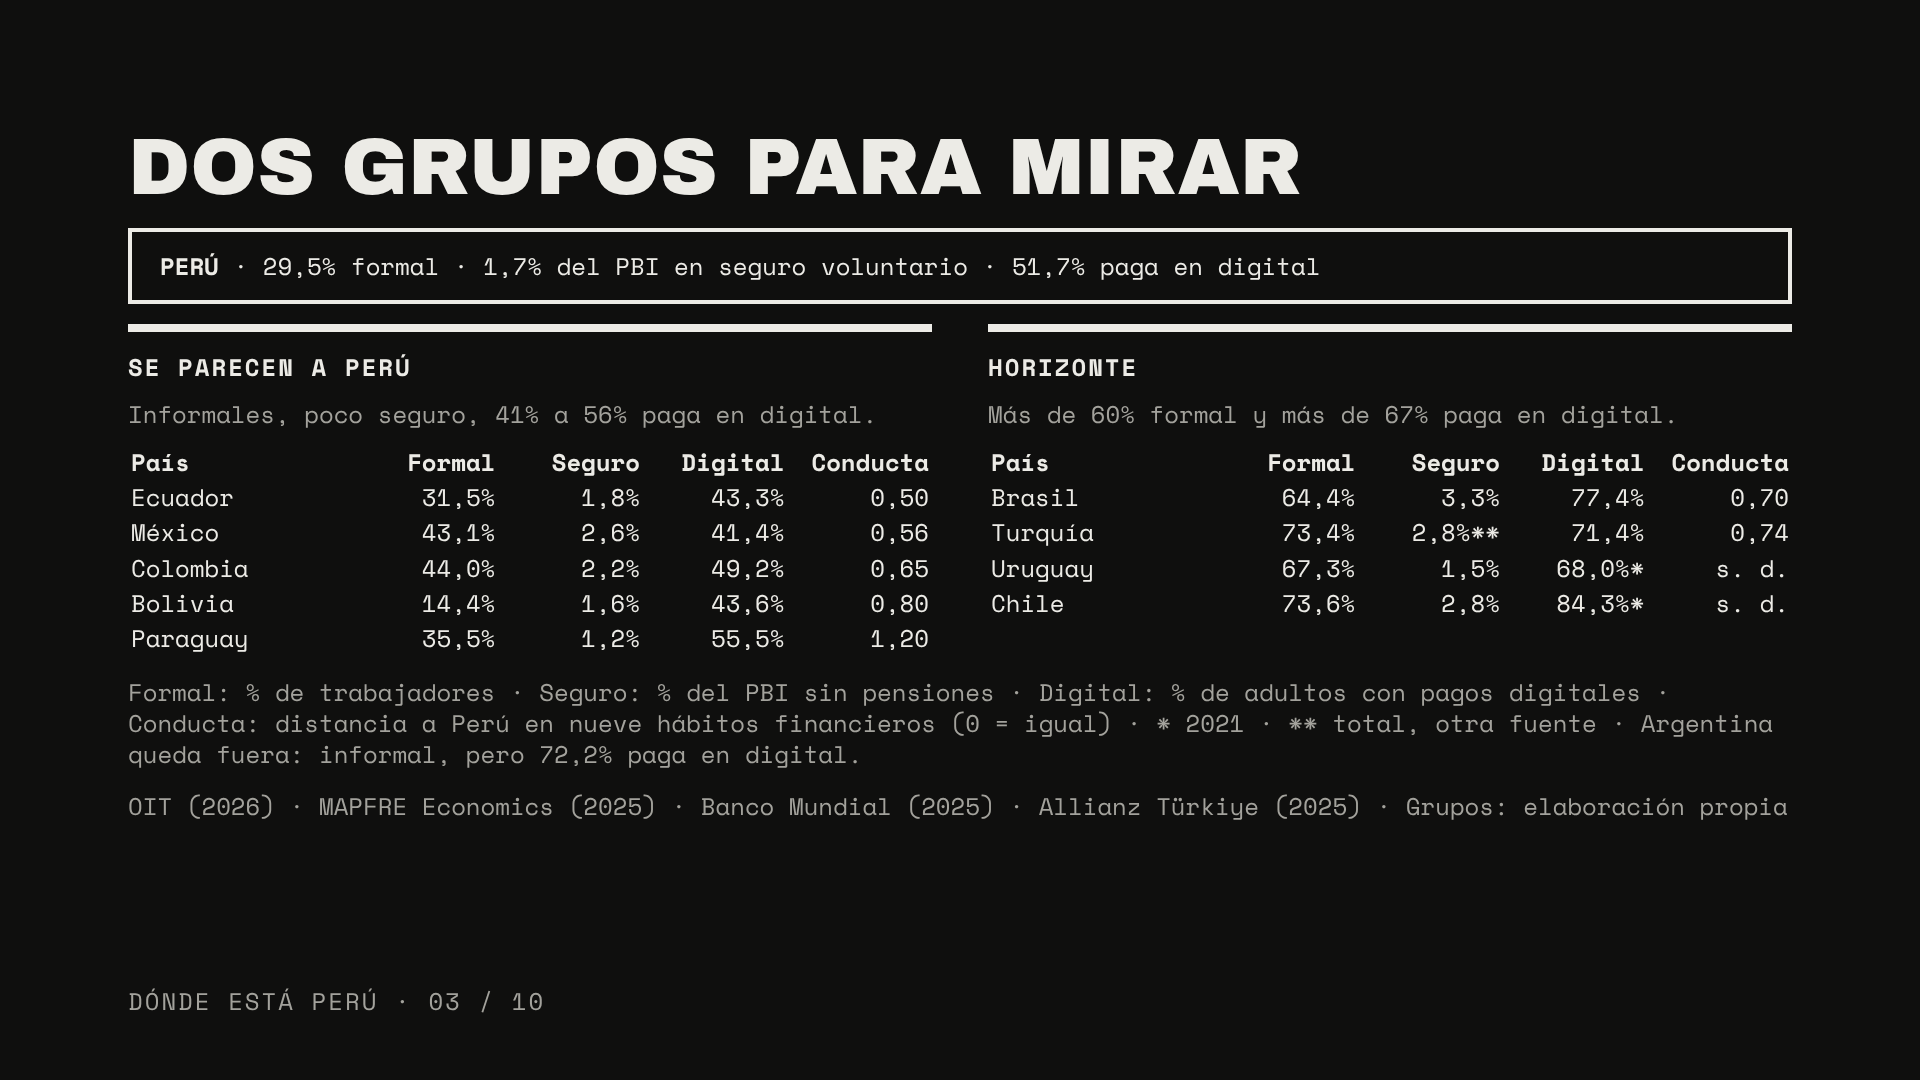
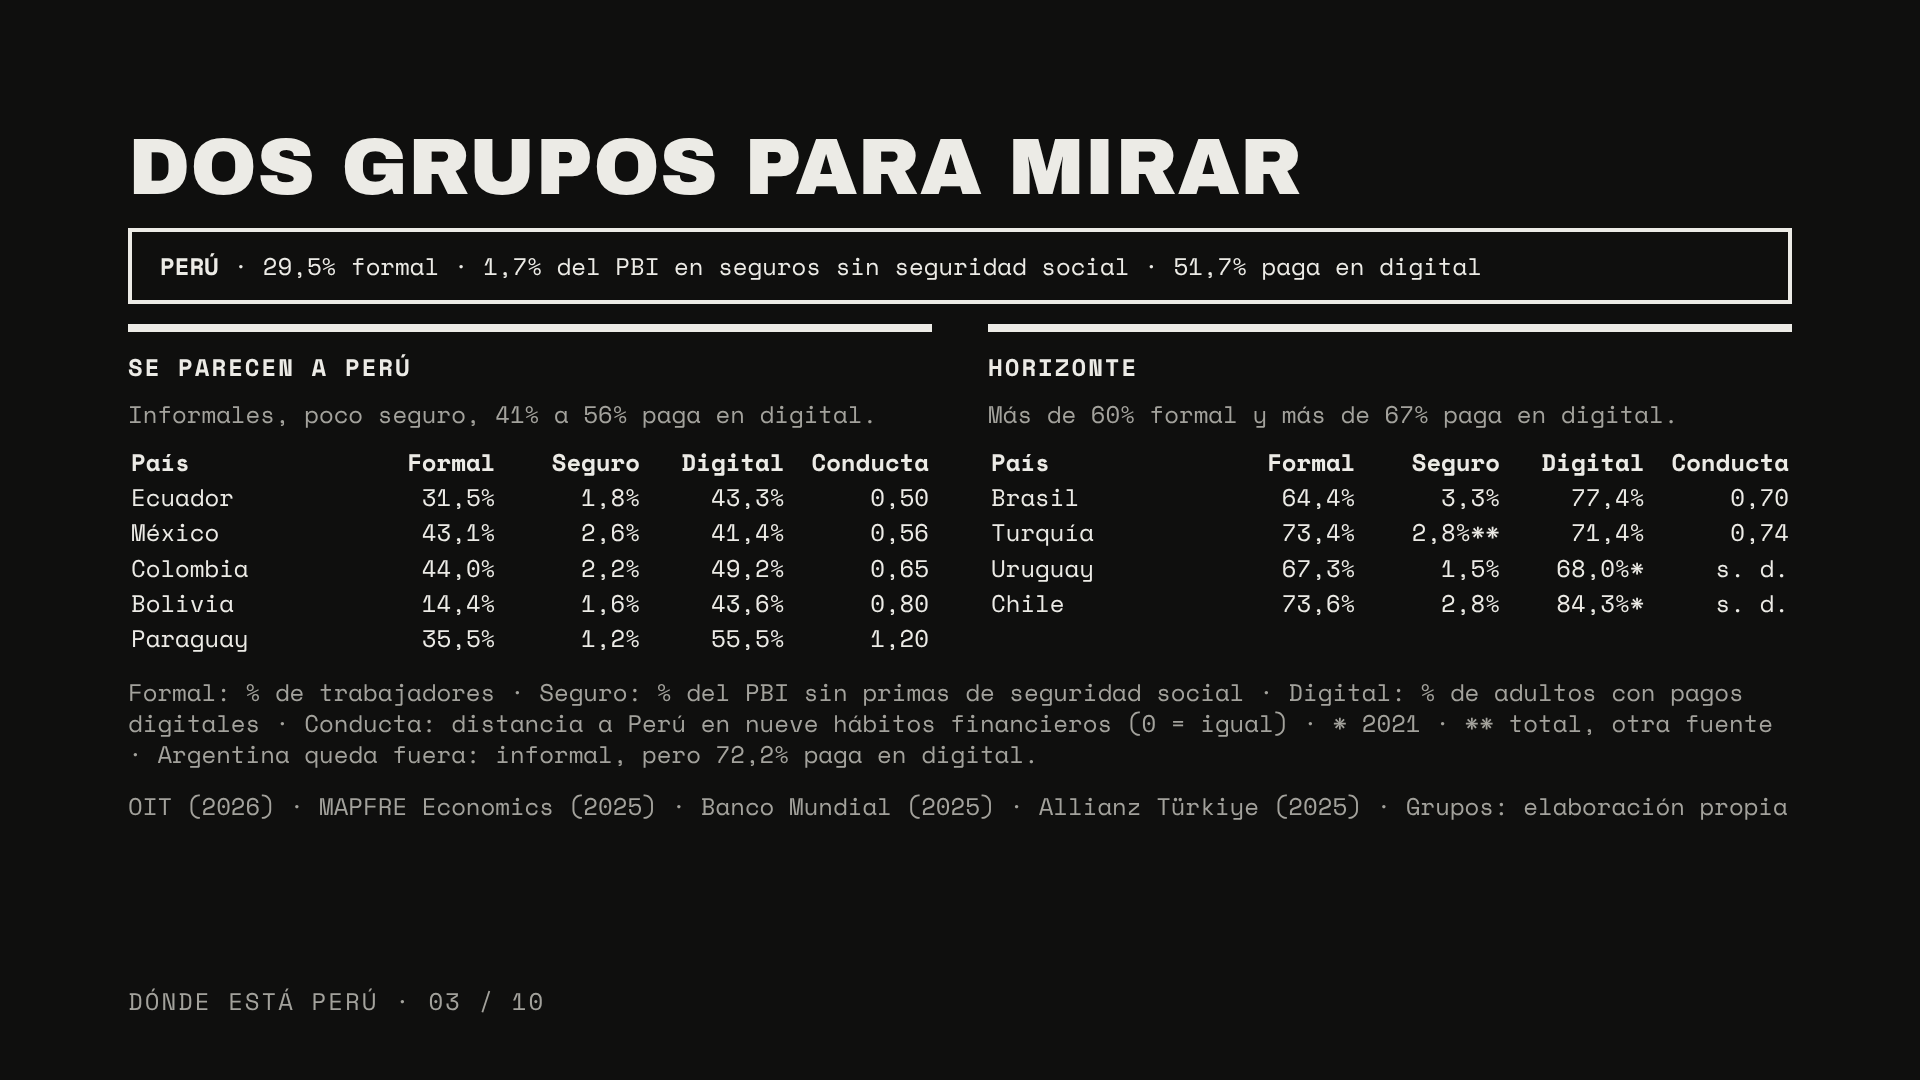
Corrige la etiqueta de primas por habitante y cambia el dato de la lámina de back office
Claude-Session: https://claude.ai/code/session_0172Gzwbb2YLHGW14wEzAdeb

Changed region(s): [[0.0625, 0.6417, 0.9062, 0.7028], [0.4375, 0.2444, 0.6875, 0.275], [0.7188, 0.2444, 0.75, 0.275]]

diff --git a/reports/presentacion-sudamerica/monocromo/project/slides/contexto-cuadrantes.html b/reports/presentacion-sudamerica/monocromo/project/slides/contexto-cuadrantes.html
@@ -1,9 +1,9 @@
 <section id="contexto-cuadrantes" data-transition="fade">
 <h2 class="t">Informal y poco asegurado</h2>
-<p class="sub">Perú frente a la región. Burbuja: gasto en seguros por habitante.</p>
+<p class="sub">Perú frente a la región. Burbuja: primas totales por habitante.</p>
 <div class="row">
 <div class="host" style="width:1040px;height:530px">
-<svg aria-label="Gráfico de burbujas: formalidad laboral frente a penetración voluntaria del seguro, por país" width="1040" height="530" viewBox="0 0 1040 530">
+<svg aria-label="Gráfico de burbujas: formalidad laboral frente a penetración del seguro sin primas de seguridad social, por país" width="1040" height="530" viewBox="0 0 1040 530">
 <line x1="90" y1="46" x2="90" y2="450" stroke="#4A4A45" stroke-width="2"/>
 <line x1="90" y1="450" x2="1020" y2="450" stroke="#4A4A45" stroke-width="2"/>
 <line x1="555" y1="46" x2="555" y2="450" stroke="#A3A29C" stroke-width="2" stroke-dasharray="8 8"/>
@@ -19,7 +19,7 @@
 <circle cx="141.2" cy="356.8" r="10.3" fill="#2A2A27" stroke="#A3A29C" stroke-width="3"/>
 <circle cx="316.7" cy="341.2" r="17.1" fill="#ECEBE6" stroke="#0F0F0E" stroke-width="3"/>
 </svg>
-<p class="lab" style="left:0px;top:0px;width:520px">↑ Seguro voluntario, % del PBI</p>
+<p class="lab" style="left:0px;top:0px;width:720px">↑ Seguro sin seguridad social, % del PBI</p>
 <p class="lab" style="left:0px;top:46px;width:80px;text-align:right">3,5%</p>
 <p class="lab" style="left:0px;top:171px;width:80px;text-align:right">2,7%</p>
 <p class="lab" style="left:0px;top:357px;width:80px;text-align:right">1,5%</p>
@@ -39,14 +39,14 @@
 <p class="lab" style="left:779px;top:212px;width:100px;text-align:center">Chile</p>
 <p class="lab" style="left:800px;top:357px;width:130px">Uruguay</p>
 </div>
-<div style="width:568px;display:flex;flex-direction:column;gap:16px">
+<div style="width:568px;display:flex;flex-direction:column;gap:12px">
 <p class="k">Dónde está Perú</p>
 <div class="stat"><p class="big">29,5%</p><p class="dim">formales. Solo Bolivia, menos.</p></div>
 <div class="stat"><p class="big">1,7%</p><p class="dim">del PBI. Promedio regional: 2,7%.</p></div>
-<div class="stat"><p class="big">US$ 173</p><p class="dim">por habitante. Región: US$ 341.</p></div>
+<div class="stat"><p class="big">US$ 173</p><p class="dim">en primas totales por habitante, con las de seguridad social. Región: US$ 341.</p></div>
 </div>
 </div>
-<p class="src">OIT, ILOSTAT (2026), datos de 2025 · MAPFRE Economics (2025), datos de 2024 · Línea de 2,7%: promedio de A. Latina</p>
+<p class="src">OIT, ILOSTAT (2026), datos de 2025 · MAPFRE Economics (2025), datos de 2024 · 2,7%: A. Latina</p>
 <p class="foot">Dónde está Perú · 01 / 10</p>
-<aside>Qué decir: ubicamos a Perú con dos indicadores comparables para todos los países. En el eje horizontal, la formalidad laboral: 100 menos la tasa de empleo informal de la OIT. En el vertical, la penetración del seguro sin las primas de pensiones y riesgos laborales, que mide la compra voluntaria. El tamaño de cada burbuja es el gasto en seguros por habitante. Perú tiene 29,5% de trabajadores formales, la segunda formalidad más baja después de Bolivia; 1,7% del PBI en seguro voluntario, frente a 2,7% de América Latina; y US$ 173 por habitante, la mitad del promedio regional (US$ 341). El cuadrante de arriba a la izquierda está vacío: ningún país es informal y muy asegurado. Ser formal tampoco basta: Uruguay es formal, pero su compra voluntaria (1,5%) es menor que la de Perú. Fuentes: OIT, ILOSTAT, tasa de empleo informal (EMP_NIFL_SEX_RT), datos de 2025, consultada en noviembre de 2026; MAPFRE Economics (2025), El mercado asegurador latinoamericano en 2024. México aparece con línea punteada, solo como referencia. Puente: la estructura es una mirada; la segunda es cuánto usa la gente los pagos digitales.</aside>
+<aside>Qué decir: ubicamos a Perú con dos indicadores comparables para todos los países. En el eje horizontal, la formalidad laboral: 100 menos la tasa de empleo informal de la OIT. En el vertical, la penetración del seguro sin las primas de pensiones y riesgos laborales, más cercana a la compra voluntaria, aunque todavía incluye el SOAT, que es obligatorio. El tamaño de cada burbuja son las primas totales por habitante: todas las primas del país divididas entre toda la población, incluidas las ligadas a la seguridad social (pensiones, salud y accidentes del trabajo). Perú tiene 29,5% de trabajadores formales, la segunda formalidad más baja después de Bolivia; 1,7% del PBI en seguros sin primas de seguridad social (2,0% con ellas), frente a 2,7% de América Latina; y US$ 173 de primas totales por habitante, la mitad del promedio regional (US$ 341). Ojo: US$ 173 no es lo que gasta un peruano en seguros voluntarios. Es un promedio sobre toda la población, incluidos los niños y quienes no tienen ningún seguro; solo 10,2% de los adultos paga con regularidad a una aseguradora (Banco Mundial, 2025). Sin las primas de seguridad social serían unos US$ 147 por habitante (cálculo nuestro: 173 × 1,7 / 2,0; entre 140 y 155 por el redondeo). El cuadrante de arriba a la izquierda está vacío: ningún país es informal y muy asegurado. Ser formal tampoco basta: Uruguay es formal, pero su penetración sin primas de seguridad social (1,5%) es menor que la de Perú. Fuentes: OIT, ILOSTAT, tasa de empleo informal (EMP_NIFL_SEX_RT), datos de 2025, consultada en noviembre de 2026; MAPFRE Economics (2025), El mercado asegurador latinoamericano en 2024. México aparece con línea punteada, solo como referencia. Puente: la estructura es una mirada; la segunda es cuánto usa la gente los pagos digitales.</aside>
 </section>

diff --git a/reports/presentacion-sudamerica/monocromo/project/slides/p1-back.html b/reports/presentacion-sudamerica/monocromo/project/slides/p1-back.html
@@ -1,5 +1,5 @@
 <section id="p1-back" data-transition="fade">
-<h2 class="t">Back: menos trámite manual</h2>
+<h2 class="t">Back: tiempo y pérdida</h2>
 <div class="cols3">
 <div class="col">
 <p class="k">Quálitas · México</p>
@@ -16,16 +16,16 @@
 <p class="k">Valor: costo y tiempo</p>
 </div>
 <div class="col">
-<p class="k">Lo que falta</p>
-<p class="big">0 de 5</p>
-<p class="txt">casos publican cuánto invirtieron y cuánto recuperaron.</p>
-<p class="dim">Publican volumen y tiempos, no dinero. En el horizonte, Allianz Türkiye sí lo mide.</p>
-<p class="k">Valor: sin medir</p>
+<p class="k">Quálitas · México</p>
+<p class="big">53%</p>
+<p class="txt">de los autos robados que tenían su localizador fueron recuperados, por encima del promedio del sector.</p>
+<p class="dim">Ofrece localizadores a clientes y flotas, y telemetría para prevenir choques en 56 flotas.</p>
+<p class="k">Valor: menos pérdida</p>
 </div>
 </div>
 <div class="spacer"></div>
-<div class="strip"><p class="txt"><b>LECTURA NUESTRA</b> · La tecnología ya ahorra tiempo en el siniestro y con el intermediario. Falta traducirlo a dinero.</p></div>
-<p class="src">Quálitas (2025), Integrated Annual Report 2024 · Darío Celis (2026) · «0 de 5»: en lo que encontramos</p>
+<div class="strip"><p class="txt"><b>LECTURA NUESTRA</b> · En el back, la tecnología ahorra tiempo en el siniestro y con el intermediario, y reduce lo que se paga por robo.</p></div>
+<p class="src">Quálitas (2025), Integrated Annual Report 2024, con datos de la OCRA · Darío Celis (2026)</p>
 <p class="foot">Parte 1 · Países parecidos a Perú · 06 / 10</p>
-<aside>Qué decir: en el back, dos aseguradoras mexicanas sacan a las personas de los trámites simples. Quálitas, líder del seguro de autos en México desde 2001, ofrece el «Ajuste Exprés Digital»: en un choque menor, el cliente toma fotos y da los datos desde su app Q Móvil, por teléfono o con su asistente Qualibot, sin que un ajustador vaya al lugar. En 2024, 28% de todos sus siniestros en México pasó por ese proceso, con 94,1% de satisfacción, frente a 95,8% del ajustador presencial. El informe no publica el costo por siniestro, así que el ahorro es una inferencia. Seguros SURA México usa IA para recibir, leer y clasificar los correos de agentes e intermediarios: el tiempo promedio de atención bajó de 20 horas a 8 minutos y procesó más de 58.500 correos entre marzo y julio de 2026, con 85% de efectividad en la clasificación y hasta 30% menos tiempo de resolución de siniestros; lo declaró Marco Guerrero, director de tecnología. «0 de 5»: ninguna de las cinco aseguradoras de esta parte publica, en lo que encontramos, cuánto invirtió y cuánto le devolvió. Como referencia pública en Perú, RIMAC declaró que su agente de IA analiza un siniestro vehicular en 60 segundos en lugar de 48 horas (Infomercado, 2025). Fuentes: Quálitas (2025), Integrated Annual Report 2024; Darío Celis (2026), «Seguros SURA apuesta por la IA…», 27 de agosto. Puente: veamos ahora el horizonte, los países a los que Perú podría parecerse.</aside>
+<aside>Qué decir: en el back, dos aseguradoras mexicanas ahorran tiempo y pérdida. Quálitas, líder del seguro de autos en México desde 2001, ofrece el «Ajuste Exprés Digital»: en un choque menor, el cliente toma fotos y da los datos desde su app Q Móvil, por teléfono o con su asistente Qualibot, sin que un ajustador vaya al lugar. En 2024, 28% de todos sus siniestros en México pasó por ese proceso, con 94,1% de satisfacción, frente a 95,8% del ajustador presencial. Además, ofrece localizadores a clientes individuales y flotas: recuperó 53% de los vehículos robados que tenían el dispositivo, equivalentes a 7% del total de vehículos robados que aseguró; según la Oficina Coordinadora de Riesgos Asegurados (OCRA), ese porcentaje supera el promedio del sector. También instaló telemetría en 56 flotas para prevenir choques. Lectura nuestra: un auto recuperado es un siniestro que no se paga completo, así que aquí el valor va directo al costo de siniestros. Seguros SURA México usa IA para recibir, leer y clasificar los correos de agentes e intermediarios: el tiempo promedio de atención bajó de 20 horas a 8 minutos y procesó más de 58.500 correos entre marzo y julio de 2026, con 85% de efectividad en la clasificación y hasta 30% menos tiempo de resolución de siniestros; lo declaró Marco Guerrero, director de tecnología. Ninguna de las cinco aseguradoras de esta parte publica, en lo que encontramos, cuánto invirtió y cuánto recuperó. Como referencia pública en Perú, RIMAC declaró que su agente de IA analiza un siniestro vehicular en 60 segundos en lugar de 48 horas (Infomercado, 2025). Fuentes: Quálitas (2025), Integrated Annual Report 2024; Darío Celis (2026), «Seguros SURA apuesta por la IA…», 27 de agosto. Puente: veamos ahora el horizonte, los países a los que Perú podría parecerse.</aside>
 </section>

diff --git a/reports/presentacion-sudamerica/monocromo/project/slides/contexto-grupos.html b/reports/presentacion-sudamerica/monocromo/project/slides/contexto-grupos.html
@@ -1,6 +1,6 @@
 <section id="contexto-grupos" data-transition="fade">
 <h2 class="t">Dos grupos para mirar</h2>
-<div class="strip"><p class="txt"><b>PERÚ</b> · 29,5% formal · 1,7% del PBI en seguro voluntario · 51,7% paga en digital</p></div>
+<div class="strip"><p class="txt"><b>PERÚ</b> · 29,5% formal · 1,7% del PBI en seguros sin seguridad social · 51,7% paga en digital</p></div>
 <div class="cols2">
 <div class="col">
 <p class="k">Se parecen a Perú</p>
@@ -26,8 +26,8 @@
 </table>
 </div>
 </div>
-<p class="src">Formal: % de trabajadores · Seguro: % del PBI sin pensiones · Digital: % de adultos con pagos digitales · Conducta: distancia a Perú en nueve hábitos financieros (0 = igual) · * 2021 · ** total, otra fuente · Argentina queda fuera: informal, pero 72,2% paga en digital.</p>
+<p class="src">Formal: % de trabajadores · Seguro: % del PBI sin primas de seguridad social · Digital: % de adultos con pagos digitales · Conducta: distancia a Perú en nueve hábitos financieros (0 = igual) · * 2021 · ** total, otra fuente · Argentina queda fuera: informal, pero 72,2% paga en digital.</p>
 <p class="src">OIT (2026) · MAPFRE Economics (2025) · Banco Mundial (2025) · Allianz Türkiye (2025) · Grupos: elaboración propia</p>
 <p class="foot">Dónde está Perú · 03 / 10</p>
-<aside>Qué decir: juntamos las tres miradas para formar dos grupos. Los que se parecen a Perú son informales (más de la mitad de los trabajadores), compran poco seguro voluntario (bajo el promedio de América Latina, 2,7% del PBI) y entre 41% y 56% de sus adultos paga en digital: Ecuador, México, Colombia, Bolivia y Paraguay. La columna «Conducta» es la distancia a Perú en nueve hábitos financieros del Global Findex: cómo ahorra la gente, a quién recurre ante un imprevisto y qué le preocupa; 0 es igual a Perú. Ecuador es el más parecido en todo. México entra porque es el segundo más parecido en conducta (0,56) y cumple las tres reglas. Paraguay se parece en estructura, pero es el más distinto en conducta (1,20). El horizonte reúne a los países con más de 60% de trabajadores formales y más de dos tercios de adultos con pagos digitales: Brasil, Turquía, Uruguay y Chile. Turquía se parece a Perú en conducta (0,74) pero es mucho más formal y digital. Uruguay es un horizonte a medias: formal y digital, pero con menos compra voluntaria de seguros que Perú. Chile y Uruguay no tienen los indicadores de conducta de 2024. Argentina queda fuera: es informal como Perú, pero 72,2% paga en digital. Fuentes: OIT, ILOSTAT (2026), datos de 2025; MAPFRE Economics (2025), datos de 2024; Banco Mundial (2025), Global Findex, datos de 2024 (indicadores save.any.t.d, fin17a.17a1.d, fin22b, fin22d, fin24fam, fin24sav, fin45c, fin45a y fin19 para la conducta); penetración total de Turquía: Allianz Research, citado por Allianz Türkiye (2025). Distancias: elaboración propia, con los 20 países que tienen los nueve indicadores. Puente: veamos qué hacen las aseguradoras del primer grupo.</aside>
+<aside>Qué decir: juntamos las tres miradas para formar dos grupos. Los que se parecen a Perú son informales (más de la mitad de los trabajadores), compran poco seguro sin contar las primas de seguridad social (bajo el promedio de América Latina, 2,7% del PBI) y entre 41% y 56% de sus adultos paga en digital: Ecuador, México, Colombia, Bolivia y Paraguay. La columna «Conducta» es la distancia a Perú en nueve hábitos financieros del Global Findex: cómo ahorra la gente, a quién recurre ante un imprevisto y qué le preocupa; 0 es igual a Perú. Ecuador es el más parecido en todo. México entra porque es el segundo más parecido en conducta (0,56) y cumple las tres reglas. Paraguay se parece en estructura, pero es el más distinto en conducta (1,20). El horizonte reúne a los países con más de 60% de trabajadores formales y más de dos tercios de adultos con pagos digitales: Brasil, Turquía, Uruguay y Chile. Turquía se parece a Perú en conducta (0,74) pero es mucho más formal y digital. Uruguay es un horizonte a medias: formal y digital, pero con menos penetración sin seguridad social que Perú. Chile y Uruguay no tienen los indicadores de conducta de 2024. Argentina queda fuera: es informal como Perú, pero 72,2% paga en digital. Fuentes: OIT, ILOSTAT (2026), datos de 2025; MAPFRE Economics (2025), datos de 2024; Banco Mundial (2025), Global Findex, datos de 2024 (indicadores save.any.t.d, fin17a.17a1.d, fin22b, fin22d, fin24fam, fin24sav, fin45c, fin45a y fin19 para la conducta); penetración total de Turquía: Allianz Research, citado por Allianz Türkiye (2025). Distancias: elaboración propia, con los 20 países que tienen los nueve indicadores. Puente: veamos qué hacen las aseguradoras del primer grupo.</aside>
 </section>

diff --git a/reports/presentacion-sudamerica/monocromo/project/slides/p2-brecha.html b/reports/presentacion-sudamerica/monocromo/project/slides/p2-brecha.html
@@ -5,8 +5,8 @@
 <tr><th style="width:36%;text-align:left">Indicador</th><th style="width:14%;text-align:right">Perú</th><th style="width:22%;text-align:right">Horizonte</th><th style="width:28%;text-align:right">Distancia</th></tr>
 <tr><td>Trabajadores formales</td><td style="text-align:right">29,5%</td><td style="text-align:right">64,4% a 73,6%</td><td style="text-align:right">2,2 a 2,5 veces</td></tr>
 <tr><td>Adultos con pagos digitales</td><td style="text-align:right">51,7%</td><td style="text-align:right">68,0% a 84,3%</td><td style="text-align:right">+16 a +33 puntos</td></tr>
-<tr><td>Seguro voluntario, % del PBI</td><td style="text-align:right">1,7%</td><td style="text-align:right">1,5% a 3,3%</td><td style="text-align:right">Uruguay, bajo Perú</td></tr>
-<tr><td>Gasto en seguros por habitante</td><td style="text-align:right">US$ 173</td><td style="text-align:right">US$ 338 a 853</td><td style="text-align:right">2 a 5 veces</td></tr>
+<tr><td>Seguro sin seguridad social, % PBI</td><td style="text-align:right">1,7%</td><td style="text-align:right">1,5% a 3,3%</td><td style="text-align:right">Uruguay, bajo Perú</td></tr>
+<tr><td>Primas totales por habitante</td><td style="text-align:right">US$ 173</td><td style="text-align:right">US$ 338 a 853</td><td style="text-align:right">2 a 5 veces</td></tr>
 </table>
 <p class="k">Y así capturan valor sus aseguradoras</p>
 <div style="display:flex;flex-direction:column;gap:4px">
@@ -19,5 +19,5 @@
 <div class="spacer"></div>
 <p class="src">OIT (2026) · Banco Mundial (2025) · MAPFRE Economics (2025) · Seguro y gasto: sin Turquía, sin dato comparable · Uruguay: sin casos publicados</p>
 <p class="foot">Parte 2 · Horizonte · 07 / 10</p>
-<aside>Qué decir: el horizonte son los países que muestran hacia dónde puede ir Perú en los indicadores en los que todavía no está a tope. Su formalidad laboral va de 64,4% (Brasil) a 73,6% (Chile): entre 2,2 y 2,5 veces la de Perú (29,5%). Sus adultos con pagos digitales van de 68,0% (Uruguay, dato de 2021) a 84,3% (Chile, dato de 2021): de 16 a 33 puntos más que Perú (51,7%). En seguro voluntario la distancia no es pareja: Brasil llega a 3,3% del PBI, pero Uruguay se queda en 1,5%, por debajo de Perú (1,7%); la formalidad no basta. Y gastan en seguros entre US$ 338 (Brasil) y US$ 853 (Uruguay) por habitante: de 2 a 5 veces lo de Perú (US$ 173). Turquía entra en las dos primeras filas (73,4% formal y 71,4% de pagos digitales); para seguro y gasto no tiene un dato comparable con MAPFRE. Abajo, los cinco casos de aseguradoras de este grupo, que veremos en las dos láminas siguientes. En Uruguay no encontramos aseguradoras que publiquen resultados de sus iniciativas digitales. Fuentes: OIT, ILOSTAT (2026), datos de 2025; Banco Mundial (2025), Global Findex, datos de 2024 (Chile y Uruguay, 2021); MAPFRE Economics (2025), datos de 2024. Puente: primero, la venta y el siniestro.</aside>
+<aside>Qué decir: el horizonte son los países que muestran hacia dónde puede ir Perú en los indicadores en los que todavía no está a tope. Su formalidad laboral va de 64,4% (Brasil) a 73,6% (Chile): entre 2,2 y 2,5 veces la de Perú (29,5%). Sus adultos con pagos digitales van de 68,0% (Uruguay, dato de 2021) a 84,3% (Chile, dato de 2021): de 16 a 33 puntos más que Perú (51,7%). En seguro sin primas de seguridad social la distancia no es pareja: Brasil llega a 3,3% del PBI, pero Uruguay se queda en 1,5%, por debajo de Perú (1,7%); la formalidad no basta. Y sus primas totales por habitante, incluidas las de seguridad social, van de US$ 338 (Brasil) a US$ 853 (Uruguay): de 2 a 5 veces las de Perú (US$ 173). Es un promedio sobre toda la población, no lo que paga un asegurado. Turquía entra en las dos primeras filas (73,4% formal y 71,4% de pagos digitales); para seguro y gasto no tiene un dato comparable con MAPFRE. Abajo, los cinco casos de aseguradoras de este grupo, que veremos en las dos láminas siguientes. En Uruguay no encontramos aseguradoras que publiquen resultados de sus iniciativas digitales. Fuentes: OIT, ILOSTAT (2026), datos de 2025; Banco Mundial (2025), Global Findex, datos de 2024 (Chile y Uruguay, 2021); MAPFRE Economics (2025), datos de 2024. Puente: primero, la venta y el siniestro.</aside>
 </section>
